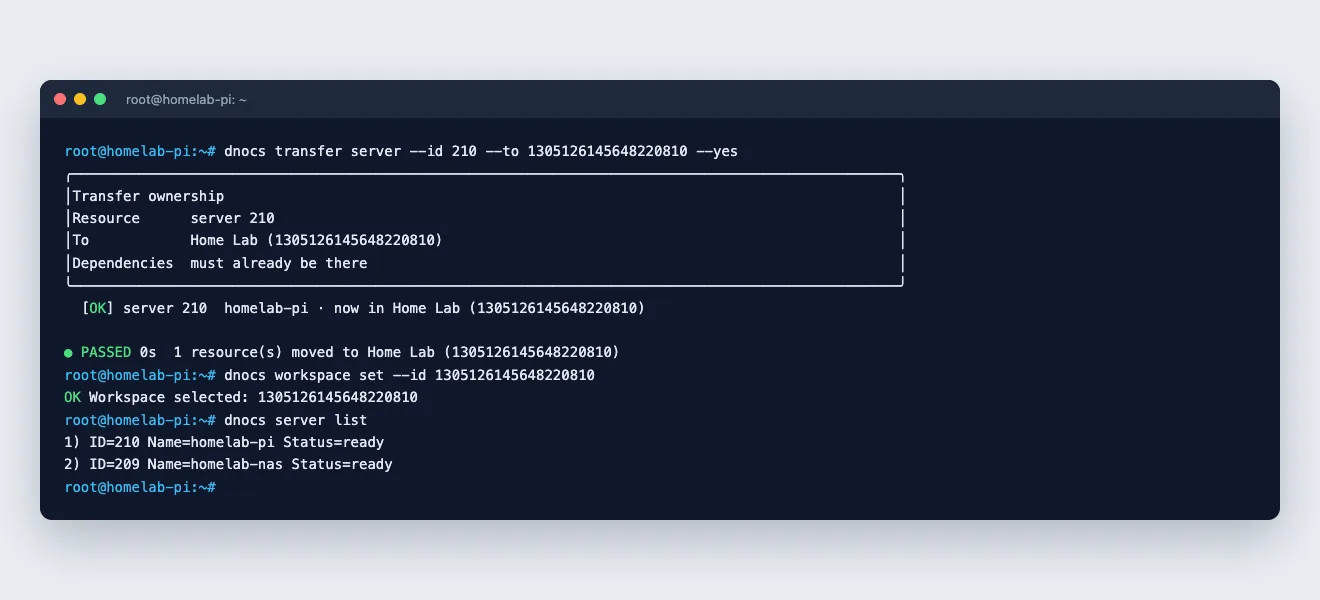
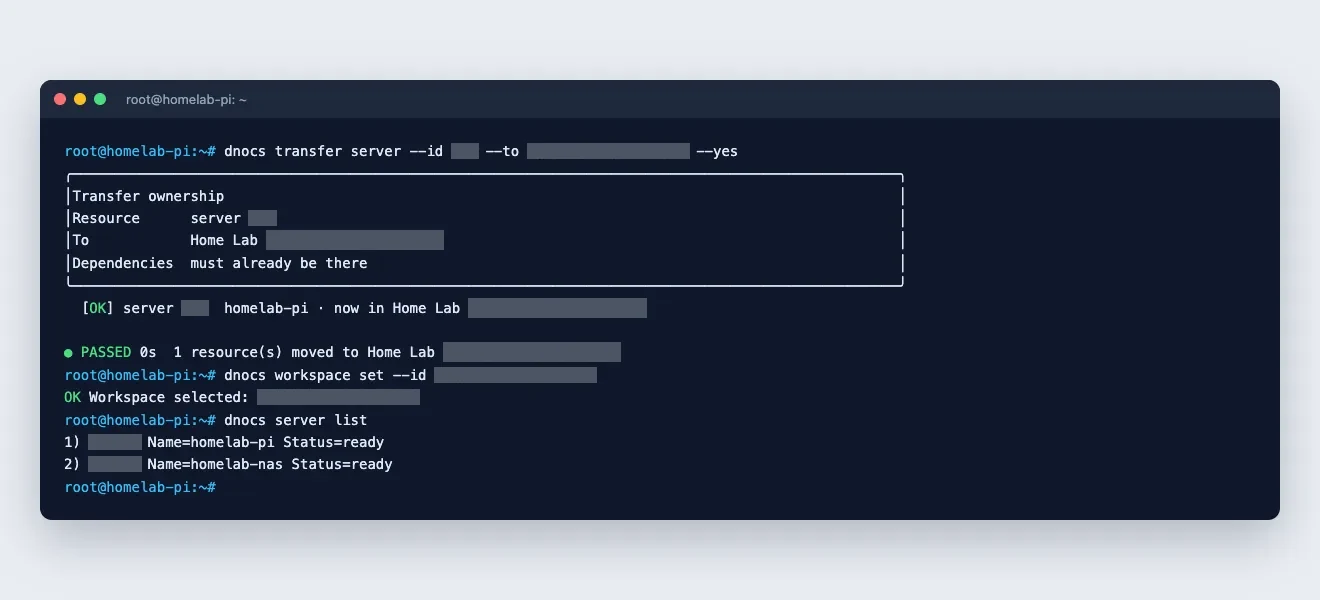
fix(docs): remove private data from fixtures and screenshots
- replace a customer hostname, team name and real IPs in test fixtures
  with example values (example-project, Acme, 198.51.100.x, 203.0.113.x)
- drop a personal email from a code comment
- redact workspace IDs, server IDs, other people's DNS records and team
  members in seven docs screenshots with solid boxes
- CONTRIBUTING: explore the real API through the Swagger reference with
  your own data, build on it, and send useful changes back as a PR

diff --git a/src/app/_with-app-layout/servers/$id/-lib/port-coverage.test.ts b/src/app/_with-app-layout/servers/$id/-lib/port-coverage.test.ts
@@ -41,8 +41,8 @@ describe('rulePortCovers', () => {
 describe('portCoverage', () => {
   const rules = [
     rule({ port: '22', origin: 'system', locked: true }),
-    rule({ port: '4150', target: 'docker', source: '82.153.226.242' }),
-    rule({ port: '4150', target: 'docker', source: '82.153.226.243' }),
+    rule({ port: '4150', target: 'docker', source: '198.51.100.242' }),
+    rule({ port: '4150', target: 'docker', source: '198.51.100.243' }),
     rule({ port: '9100', action: 'deny' }),
   ];
 
@@ -55,7 +55,7 @@ describe('portCoverage', () => {
     expect(portCoverage('4150', firewall(rules))).toEqual({
       kind: 'restricted',
       enforced: true,
-      sources: ['82.153.226.242', '82.153.226.243'],
+      sources: ['198.51.100.242', '198.51.100.243'],
     });
   });
 

diff --git a/src/widgets/log-viewer/lib/log-entries.test.ts b/src/widgets/log-viewer/lib/log-entries.test.ts
@@ -63,7 +63,7 @@ describe('toParsedLogLines', () => {
           line: '2026/10/29 20:20:19 [postRequestForm] Response from API: {"ok":1,"message":"Pembayaran Berhasil Diterima"}',
           severity: 'INFO',
           time: at,
-          source: 'bbo-pubsub-consumer-01',
+          source: 'queue-consumer-01',
         },
       ],
       OPTIONS,
@@ -77,7 +77,7 @@ describe('toParsedLogLines', () => {
     expect(line?.jsonPrefix).toBe('[postRequestForm] Response from API:');
     expect(line?.timestamp).toBe('Today 20:20:19');
     expect(line?.level).toBe('info');
-    expect(line?.sourceLabel).toBe('bbo-pubsub-consumer-01');
+    expect(line?.sourceLabel).toBe('queue-consumer-01');
     expect(line?.raw).toContain('2026/10/29 20:20:19');
   });
 

diff --git a/src/app/_with-app-layout/applications/create/-model/store/servers.test.tsx b/src/app/_with-app-layout/applications/create/-model/store/servers.test.tsx
@@ -73,7 +73,7 @@ describe('useServersStore', () => {
           {
             id: '304',
             hostname: 'gcp-01',
-            address: '34.128.99.32',
+            address: '203.0.113.32',
             connectivity: 'private',
           },
           {
@@ -102,7 +102,7 @@ describe('useServersStore', () => {
         }),
       ),
     ).toEqual([
-      { publicIP: '34.128.99.32', isPrivate: true, hasPublicAddress: true },
+      { publicIP: '203.0.113.32', isPrivate: true, hasPublicAddress: true },
       { publicIP: '192.168.1.20', isPrivate: true, hasPublicAddress: false },
     ]);
   });

diff --git a/src/app/_with-app-layout/dashboard/-lib/activity.test.ts b/src/app/_with-app-layout/dashboard/-lib/activity.test.ts
@@ -280,11 +280,11 @@ describe('executionTarget', () => {
 describe('shortHostLabel', () => {
   it.each([
     [
-      'bbo-pubsub-consumer-01.asia-southeast2-a.c.bizgital.internal',
-      'bbo-pubsub-consumer-01',
+      'queue-consumer-01.asia-southeast2-a.c.example-project.internal',
+      'queue-consumer-01',
     ],
     ['web-01', 'web-01'],
-    ['34.158.53.175', '34.158.53.175'],
+    ['203.0.113.175', '203.0.113.175'],
     ['2001:db8::1', '2001:db8::1'],
   ])('%s → %s', (target, expected) => {
     expect(shortHostLabel(target)).toBe(expected);

diff --git a/src/app/_with-app-layout/teams/-lib/team-roles.test.ts b/src/app/_with-app-layout/teams/-lib/team-roles.test.ts
@@ -32,7 +32,7 @@ describe('profile workspaces', () => {
     {
       id: '2430473335433071236',
       type: 'group',
-      name: 'BBO',
+      name: 'Acme',
       roles: ['2430473335433071236:workspace-admin'],
     },
   ];
@@ -40,7 +40,7 @@ describe('profile workspaces', () => {
   it('counts teams without the personal workspace', () => {
     expect(teamWorkspaces(workspaces).map((team) => team.name)).toEqual([
       'Devetek Inc',
-      'BBO',
+      'Acme',
     ]);
     expect(teamWorkspaces(undefined)).toEqual([]);
   });

diff --git a/src/app/_with-app-layout/servers/$id/-lib/firewall.test.ts b/src/app/_with-app-layout/servers/$id/-lib/firewall.test.ts
@@ -45,7 +45,7 @@ const firewall = {
       direction: 'route',
       protocol: 'tcp',
       port: '4150',
-      source: '82.153.226.242',
+      source: '198.51.100.242',
       comment: 'legacy nsqd',
       origin: 'user',
       locked: false,
@@ -74,7 +74,7 @@ describe('toFirewallView', () => {
       ['docker', false],
     ]);
     expect(view.rules[1]).toMatchObject({
-      source: '82.153.226.242',
+      source: '198.51.100.242',
       comment: 'legacy nsqd',
       origin: 'user',
     });

diff --git a/src/shared/libs/slice-setter/utils.ts b/src/shared/libs/slice-setter/utils.ts
@@ -90,7 +90,7 @@ export function mapSettersAsCallbacks<
    * however this would mean that we have to iterate it 2 times instead of just having it once
    * imperatively (using index operator to directly fill the specified key).
    */
-  // @ts-expect-error: aldey.putra@tokopedia.com see notes above
+  // @ts-expect-error: see the SAFETY note above
   const registeredSetters: {
     // This is defined inline to allow full type description on our output.
     [K in keyof TSetterRegistry]: (

diff --git a/CONTRIBUTING.md b/CONTRIBUTING.md
@@ -102,6 +102,38 @@ When the API changes, refresh the contract with `pnpm mock:spec` and commit
 the backend, so the app and the API must share a parent domain over HTTPS; the
 `Caddyfile` shows one way to serve both locally.
 
+## Explore the real API
+
+The mock is for building UI. To see how dPanel behaves with your own data, use
+the live API reference at
+[pawon.devetek.app/swagger](https://pawon.devetek.app/swagger/index.html). It
+lists every endpoint the dashboard uses, with its parameters and response
+shapes, and **Try it out** sends a real request.
+
+1. Sign in at [dnocs.devetek.app](https://dnocs.devetek.app) with your dPanel
+   account.
+2. Open the Swagger page in the same browser and try a read-only call first,
+   such as `GET /api/v1/user/profile` or `GET /api/v1/server/find`.
+3. To work in a team workspace, set the `x-auth-organization-id` header to that
+   workspace's ID (shown on your profile page).
+
+Requests run as you, on your real servers, applications and data. A `POST`,
+`PUT` or `DELETE` really creates, changes or deletes things, so use a test
+workspace or test resources while you experiment.
+
+This is the same contract the mock serves, so what you learn there applies to
+`pnpm dev:mock`. Use it to:
+
+- understand the data behind a page before you change it;
+- copy a real response shape, with your own values replaced by demo data, into
+  `mock/examples/`;
+- build your own tool or product on top of dPanel, or reshape a flow in this
+  frontend so it fits the way you work.
+
+If you build something that would help other dPanel users, a better flow, a
+new page or a fix, please open a pull request. See
+[Branches, commits and pull requests](#branches-commits-and-pull-requests).
+
 ## Project structure
 
 ```text

diff --git a/README.md b/README.md
@@ -38,7 +38,8 @@ can and cannot do.
 ## Contributing
 
 Read [CONTRIBUTING.md](CONTRIBUTING.md) for the project layout, conventions,
-the mock API and how to open a pull request. Documentation pages live in
+the mock API and how to open a pull request. To explore the real API with
+your own data, see [Explore the real API](CONTRIBUTING.md#explore-the-real-api). Documentation pages live in
 [src/documentations](src/documentations/README.md).
 
 ## Security
